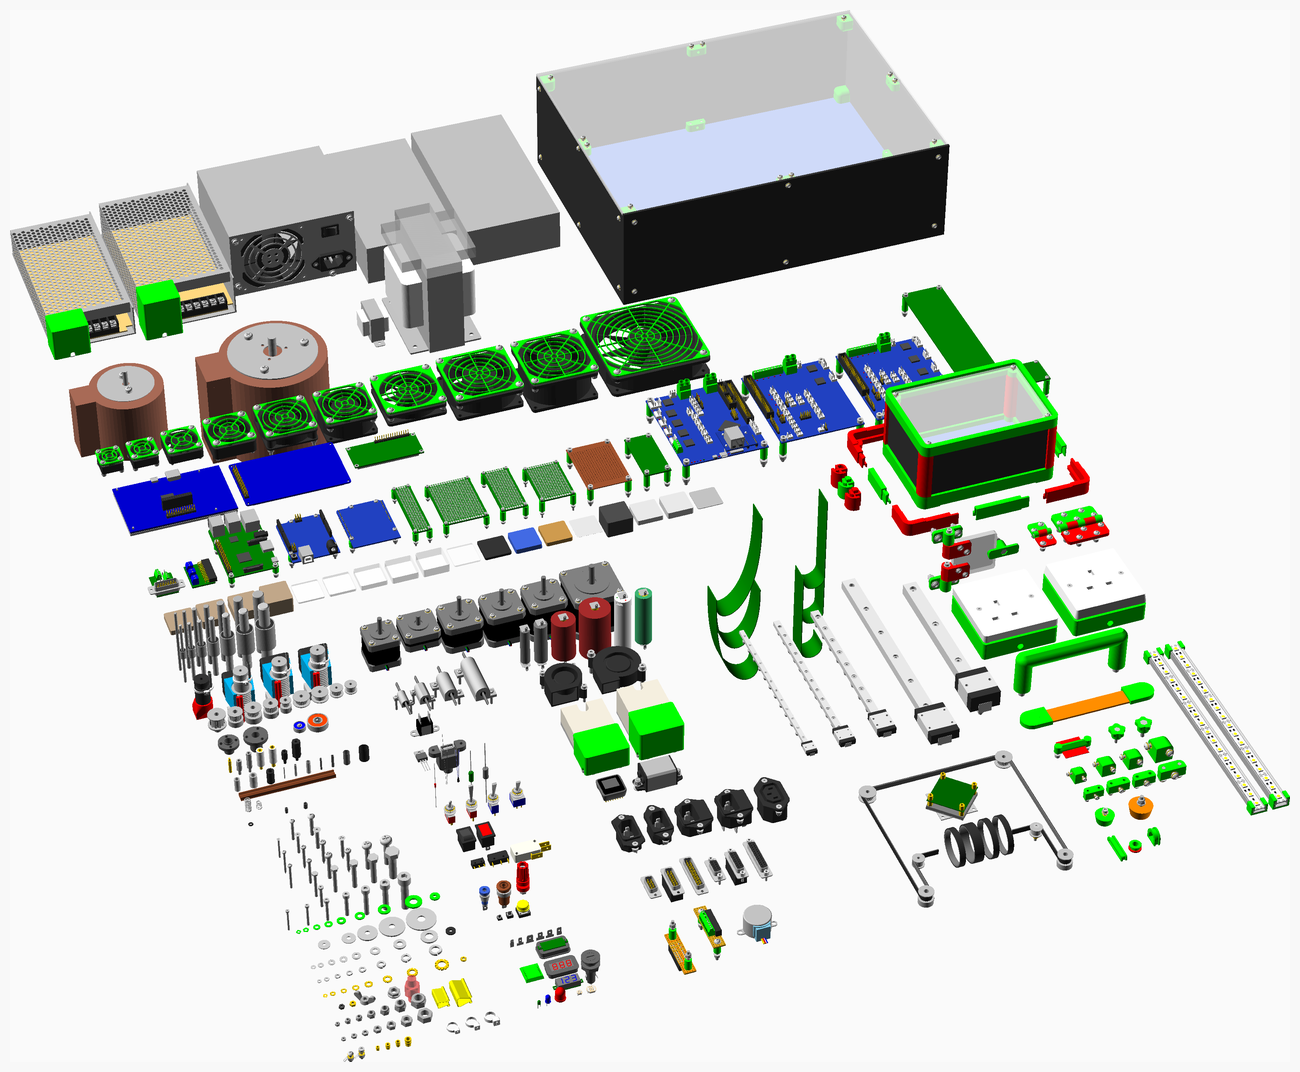
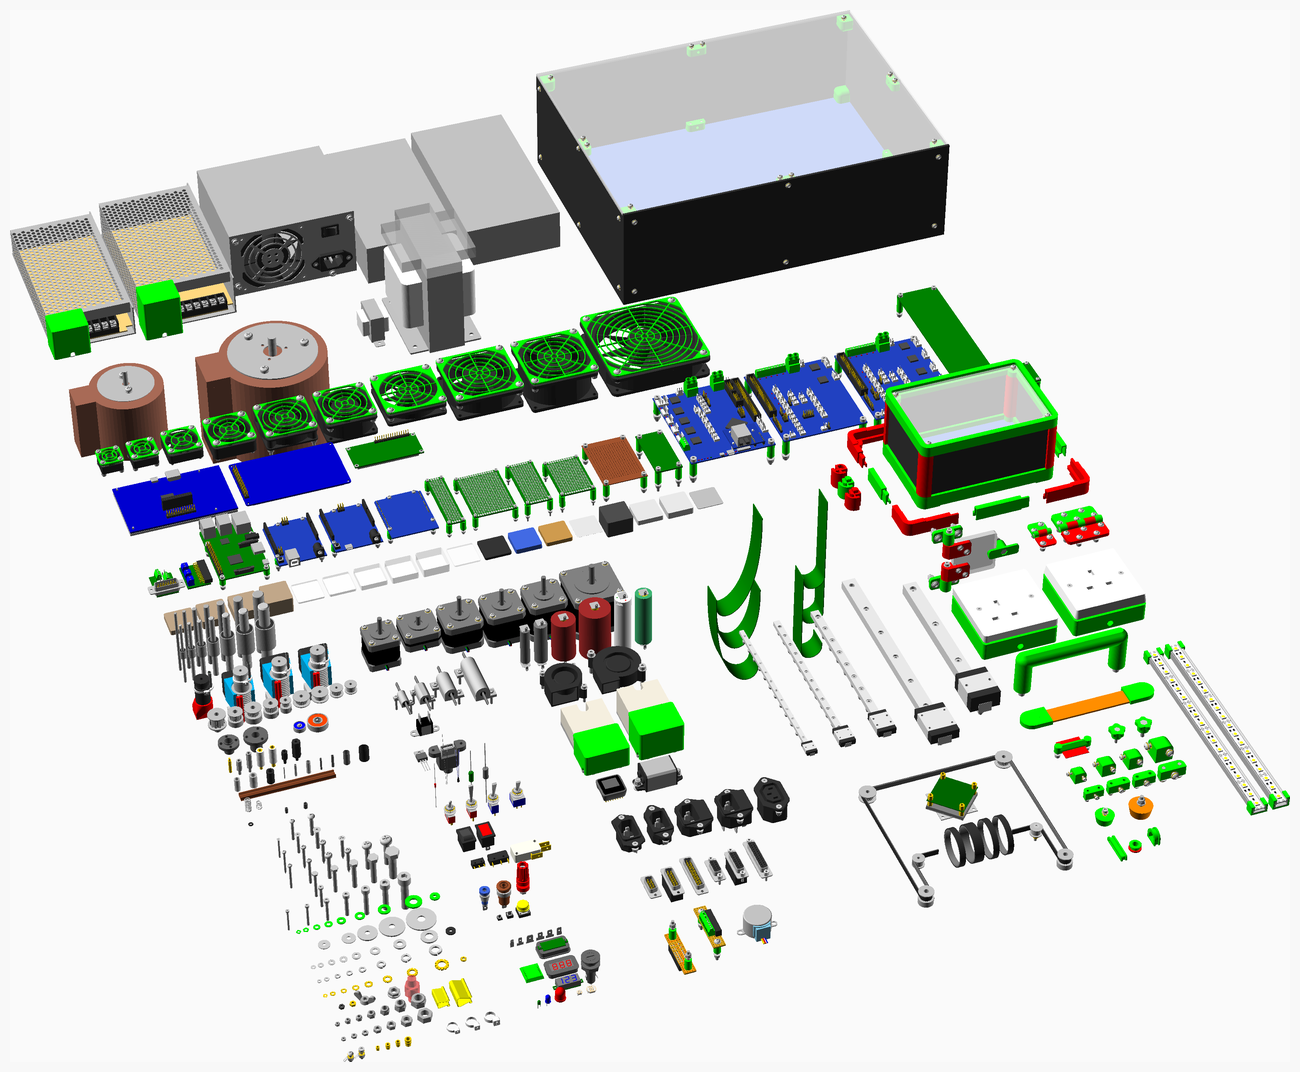
Added Arduino Leonardo

Changed region(s): [[0.1231, 0.2771, 0.7692, 0.5541], [0.7692, 0.3386, 0.8308, 0.3694]]

diff --git a/readme.md b/readme.md
@@ -1678,6 +1678,7 @@ PCBs and perfboard with optional components. The shape can be a rectangle with o
 ### Vitamins
 | Qty | Module call | BOM entry |
 | ---:|:--- |:---|
+|   1 | ```pcb(ArduinoLeonardo)``` |  Arduino Leonardo |
 |   1 | ```pcb(ArduinoUno3)``` |  Arduino Uno R3 |
 |   1 |  |  Cat 5 patch cable 300mm |
 |   1 | ```d_plug(DCONN15, pcb = true)``` |  D-type 15 way PCB mount plug |
@@ -1691,7 +1692,7 @@ PCBs and perfboard with optional components. The shape can be a rectangle with o
 |   1 | ```molex_254(2)``` |  Molex KK header 2 way |
 |   1 | ```molex_254(3)``` |  Molex KK header 3 way |
 |  16 | ```nut(M2_nut, nyloc = true)``` |  Nut M2 x 1.6mm nyloc |
-|  16 | ```nut(M2p5_nut, nyloc = true)``` |  Nut M2.5 x 2.2mm nyloc |
+|  20 | ```nut(M2p5_nut, nyloc = true)``` |  Nut M2.5 x 2.2mm nyloc |
 |  12 | ```nut(M3_nut, nyloc = true)``` |  Nut M3 x 2.4mm nyloc |
 |  12 | ```nut(M4_nut, nyloc = true)``` |  Nut M4 x 3.2mm nyloc |
 |   1 | ```pcb(PI_IO)``` |  PI_IO V2 |
@@ -1703,19 +1704,19 @@ PCBs and perfboard with optional components. The shape can be a rectangle with o
 |   1 | ```pcb(PERF80x20)``` |  Perfboard 80 x 20mm |
 |   1 | ```pin_socket(2p54header, 13, 2, right_angle = true)``` |  Pin socket 13 x 2 right_angle |
 |   1 | ```pcb(RPI3)``` |  Raspberry Pi 3 |
-|  12 | ```screw(M2_cap_screw, 20)``` |  Screw M2 cap x 20mm |
-|   4 | ```screw(M2_cap_screw, 25)``` |  Screw M2 cap x 25mm |
+|   8 | ```screw(M2_cap_screw, 20)``` |  Screw M2 cap x 20mm |
+|   8 | ```screw(M2_cap_screw, 25)``` |  Screw M2 cap x 25mm |
 |   4 | ```screw(M2p5_cap_screw, 16)``` |  Screw M2.5 cap x 16mm |
-|   8 | ```screw(M2p5_pan_screw, 20)``` |  Screw M2.5 pan x 20mm |
+|  12 | ```screw(M2p5_pan_screw, 20)``` |  Screw M2.5 pan x 20mm |
 |   4 | ```screw(M2p5_pan_screw, 30)``` |  Screw M2.5 pan x 30mm |
-|   8 | ```screw(M3_cap_screw, 25)``` |  Screw M3 cap x 25mm |
-|   4 | ```screw(M3_cap_screw, 30)``` |  Screw M3 cap x 30mm |
+|   4 | ```screw(M3_cap_screw, 25)``` |  Screw M3 cap x 25mm |
+|   8 | ```screw(M3_cap_screw, 30)``` |  Screw M3 cap x 30mm |
 |  12 | ```screw(M4_cap_screw, 30)``` |  Screw M4 cap x 30mm |
 |   3 | ```terminal_35(2)``` |  Terminal block 2 way 3.5mm |
 |   2 | ```green_terminal(gt_2p54, 4)``` |  Terminal block 4 way 0.1" |
 |   1 |  |  USB A to Mini B lead |
 |  16 | ```washer(M2_washer)``` |  Washer  M2 x 5mm x 0.3mm |
-|  16 | ```washer(M2p5_washer)``` |  Washer  M2.5 x 5.9mm x 0.5mm |
+|  20 | ```washer(M2p5_washer)``` |  Washer  M2.5 x 5.9mm x 0.5mm |
 |  12 | ```washer(M3_washer)``` |  Washer  M3 x 7mm x 0.5mm |
 |  12 | ```washer(M4_washer)``` |  Washer  M4 x 9mm x 0.8mm |
 |   1 | ```pcb(ZC_A0591)``` |  ZC-A0591 ULN2003 driver PCB |
@@ -1723,20 +1724,21 @@ PCBs and perfboard with optional components. The shape can be a rectangle with o
 ### Printed
 | Qty | Filename |
 | ---:|:--- |
-|   4 | pcb_spacer20100.stl |
 |   4 | pcb_spacer20110.stl |
 |   4 | pcb_spacer20120.stl |
 |   4 | pcb_spacer20130.stl |
-|   4 | pcb_spacer25200.stl |
+|   4 | pcb_spacer20140.stl |
+|   4 | pcb_spacer25100_2.stl |
+|   4 | pcb_spacer25210.stl |
 |   4 | pcb_spacer2570.stl |
 |   4 | pcb_spacer2580_2.stl |
 |   4 | pcb_spacer2590_2.stl |
-|   4 | pcb_spacer30140.stl |
 |   4 | pcb_spacer30150.stl |
-|   4 | pcb_spacer30190.stl |
-|   4 | pcb_spacer40160.stl |
+|   4 | pcb_spacer30160.stl |
+|   4 | pcb_spacer30200.stl |
 |   4 | pcb_spacer40170.stl |
 |   4 | pcb_spacer40180.stl |
+|   4 | pcb_spacer40190.stl |
 
 
 <a href="#top">Top</a>
